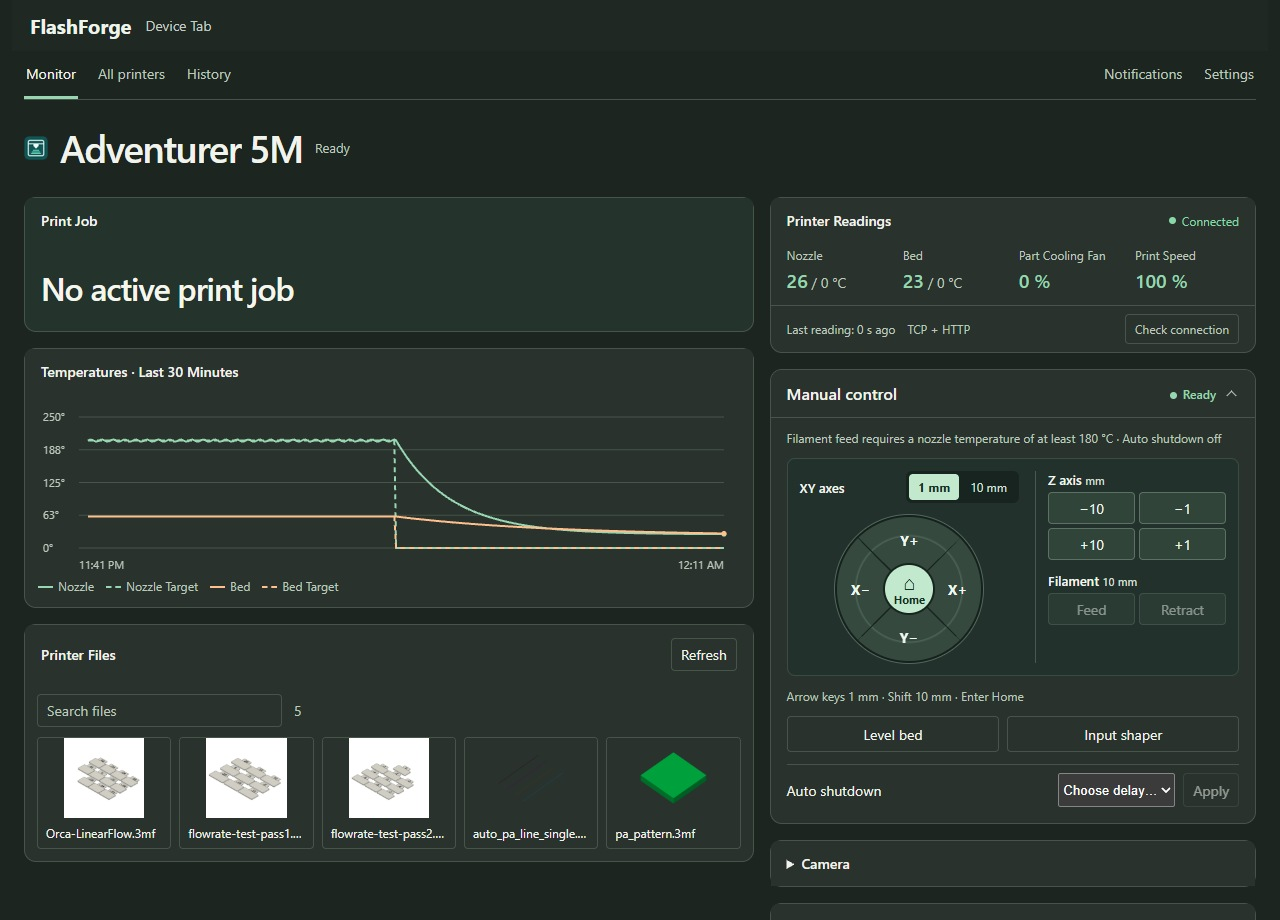
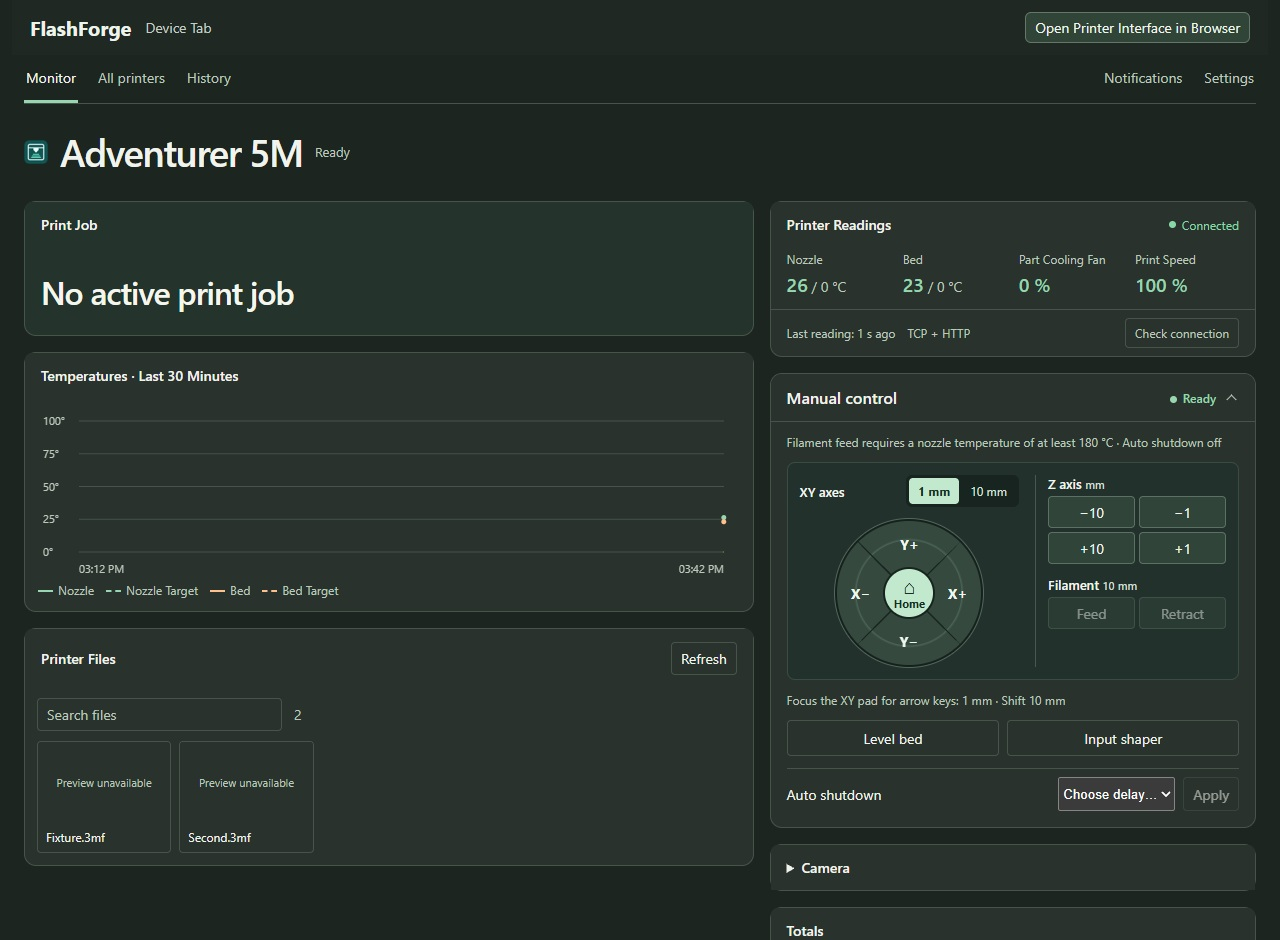
Release FlashForge Device Tab 1.12.1

diff --git a/flashforge_device_tab.py b/flashforge_device_tab.py
@@ -4,7 +4,7 @@
 # name = "FlashForge Device Tab"
 # description = "Follow local FlashForge prints in OrcaSlicer's Device or FlashForge tab."
 # author = "Max"
-# version = "1.12.0"
+# version = "1.12.1"
 # ///
 import base64
 import hashlib
@@ -106,7 +106,9 @@ h2 { font-size: 14px; font-weight: 600; }
 .connection { gap: 6px; color: var(--muted); font-size: 12px; white-space: nowrap; }
 .connection::before { content: ""; width: 7px; height: 7px; border-radius: 50%; background: currentColor; }
 .connection.connected { color: var(--ok); }
-.connection.disconnected { color: var(--warn); }
+.connection.disconnected { color: var(--warn); max-width: 100%; min-width: 0; flex-wrap: nowrap;
+  white-space: normal; overflow-wrap: anywhere; }
+.connection.disconnected::before { flex: 0 0 7px; }
 .dashboard { display: grid; grid-template-columns: minmax(0, 3fr) minmax(380px, 2fr); gap: 16px; align-items: start; }
 .monitor-main, .printer-sidebar { display: grid; gap: 16px; min-width: 0; align-content: start; }
 .panel { background: var(--panel); border: 1px solid var(--line); border-radius: 8px; }
@@ -273,6 +275,7 @@ main {padding-top:0}
 .step-switch input:focus-visible + span {outline:2px solid white;outline-offset:1px}
 .jog-pad {position:relative;width:min(100%,148px);aspect-ratio:1;border-radius:50%;background:#16231e;
   border:2px solid #15211c;box-shadow:0 0 0 1px #53675c}
+.jog-pad:focus-visible {outline:2px solid #c2e9ce;outline-offset:4px}
 .jog-pad button[data-jog] {position:absolute;inset:0;width:100%;height:100%;padding:0;border:0;border-radius:50%;
   transform:rotate(var(--angle));clip-path:polygon(0 0,100% 0,50% 49%);color:#eff8ef;
   background:radial-gradient(circle,transparent 51%,#4c6257 52%,transparent 54%),#35493e}
@@ -427,7 +430,7 @@ main {padding-top:0}
       </section>
       <details class="panel" id="manualPanel" hidden>
         <summary class="panel-title">Manual control <span id="manualBadge"></span></summary>
-        <div class="tool-body manual-body" id="manualBody" tabindex="0" aria-label="Manual control keyboard area">
+        <div class="tool-body manual-body" id="manualBody">
           <p class="caption" id="manualState"></p>
           <div class="manual-surface" data-group="motion">
             <div class="manual-xy">
@@ -437,7 +440,7 @@ main {padding-top:0}
                   <label><input name="xyStep" type="radio" value="10"><span>10 mm</span></label>
                 </div>
               </div>
-              <div class="jog-pad" tabindex="0" role="group" aria-label="XY movement. Arrow keys move 1 mm, Shift moves 10 mm, Enter homes.">
+              <div class="jog-pad" tabindex="0" role="group" aria-label="XY movement. Arrow keys move 1 mm, Shift moves 10 mm.">
                 <button data-jog="y+" aria-label="Move Y positive"><span>Y+</span></button>
                 <button data-jog="x-" aria-label="Move X negative"><span>X−</span></button>
                 <button data-jog="x+" aria-label="Move X positive"><span>X+</span></button>
@@ -459,7 +462,7 @@ main {padding-top:0}
               </div>
             </div>
           </div>
-          <p class="caption" data-group="motion">Arrow keys 1 mm · Shift 10 mm · Enter Home</p>
+          <p class="caption" data-group="motion">Focus the XY pad for arrow keys: 1 mm · Shift 10 mm</p>
           <div class="manual-services" data-group="calibration"><button data-manual="level">Level bed</button>
             <button data-manual="shaper">Input shaper</button><button data-group="clear" data-manual="clear">Clear error</button></div>
           <div class="manual-row timer-row" data-group="timer"><label>Auto shutdown <select id="manualTimer"><option value="">Choose delay…</option><option value="0">Off</option>
@@ -586,7 +589,7 @@ async function diagnose(host) {
     const url = host ? new URL('/' + encodeURIComponent(host) + '/diagnostics', location.origin) : endpoint('/diagnostics');
     const data = await postLocal('diagnostics', url);
     if (!current()) return;
-    showInfo('Connection check', ['FlashForge Device Tab 1.12.0', 'Transport: ' + data.transport, 'Status: received',
+    showInfo('Connection check', ['FlashForge Device Tab 1.12.1', 'Transport: ' + data.transport, 'Status: received',
       'Authenticated readings: ' + (data.authenticated ? 'available' : 'unavailable'),
       'Camera URL: ' + (data.cameraReported ? 'reported; stream not tested' : 'not reported')].join('\n'), true);
   } catch (error) { if (current()) showInfo('Connection check', error.message, true); }
@@ -627,7 +630,7 @@ function updateAge() {
     el('connection').textContent = 'Delayed';
     el('connection').className = 'connection disconnected';
     el('monitor').classList.add('stale');
-    updateActions({});
+    updateActions({}, true);
   }
 }
 setInterval(updateAge,1000);
@@ -1113,7 +1116,7 @@ async function updateStatus() {
     el('monitor').classList.add('stale');
     el('status').hidden = false;
     el('status').textContent = error.status === 409 ? 'Profile changed' : 'Monitoring paused';
-    updateActions({});
+    updateActions({}, error.status !== 409);
     el('time').hidden = true;
     el('timeHint').hidden = true;
     if (error.status === 409) {
@@ -1189,14 +1192,16 @@ manualBody.onclick = event => {
 };
 el('jogStep').onchange = el('manualTimer').onchange = renderManual;
 manualBody.onkeydown = event => {
-  if ((event.target !== manualBody && !event.target.matches('.jog-pad')) || event.altKey || event.ctrlKey || event.metaKey) return;
+  if (!event.target.matches('.jog-pad') || event.altKey || event.ctrlKey || event.metaKey) return;
   const axis = {ArrowLeft:'x-',ArrowRight:'x+',ArrowDown:'y-',ArrowUp:'y+'}[event.key];
-  if (!axis && event.key !== 'Enter') return;
+  if (!axis) return;
   event.preventDefault();
-  if (!event.repeat) sendManual(axis ? axis + (event.shiftKey ? '10' : '1') : 'home');
+  if (!event.repeat) sendManual(axis + (event.shiftKey ? '10' : '1'));
 };
-function updateActions(data) {
-  manual = data.manual || null;
+function updateActions(data, preserveManual = false) {
+  manual = preserveManual && manual
+    ? {...manual, allowed: [], description: 'Unavailable · Waiting for current printer readings'}
+    : data.manual || null;
   renderManual();
   const state = data.state || '';
   const paused = data.jobControls && state === 'PAUSED';

diff --git a/README.md b/README.md
@@ -5,8 +5,8 @@ is left, check nozzle and bed temperatures, or open the printer camera.
 Switch between your local printers and review completed jobs after a restart.
 Printers with a working authenticated control API also offer pause, resume and cancel.
 
-**Stable release 1.12.0** updates the monitor layout, opens the printer web
-interface in the system browser, and adds an optional dedicated FlashForge tab.
+**Stable release 1.12.1** scopes keyboard jogging to the XY pad and keeps
+Manual control visible when printer readings become unavailable.
 
 [![Live print monitoring in the Device tab](docs/01-live-monitor.png)](docs/panel.png)
 
@@ -30,6 +30,9 @@ The screenshots show the plugin running with demonstration data. Select an image
 Manual commands require an idle printer. Filament controls require at least
 180 °C at the nozzle. Where available, the shutdown timer offers Off, 30, 60
 and 120 minutes. The manual controls were verified with simulated printers.
+Focus the XY pad to jog by 1 mm with the arrow keys or by 10 mm with Shift.
+Press Enter on the Home button to home the printer. If readings become
+unavailable, the panel stays open and commands are disabled until fresh readings arrive.
 
 ## What it does
 

diff --git a/CHANGELOG.md b/CHANGELOG.md
@@ -1,5 +1,13 @@
 # Changelog
 
+## 1.12.1
+
+- Arrow keys jog only while the XY pad has focus. Shift increases the step
+  from 1 mm to 10 mm. Enter activates Home only when its button has focus.
+- Keep Manual control open when readings become unavailable or stale, with
+  commands disabled until fresh readings arrive.
+- Wrap long connection errors in narrow windows.
+
 ## 1.12.0
 
 - Open the printer's web interface in the system browser and recover Device
